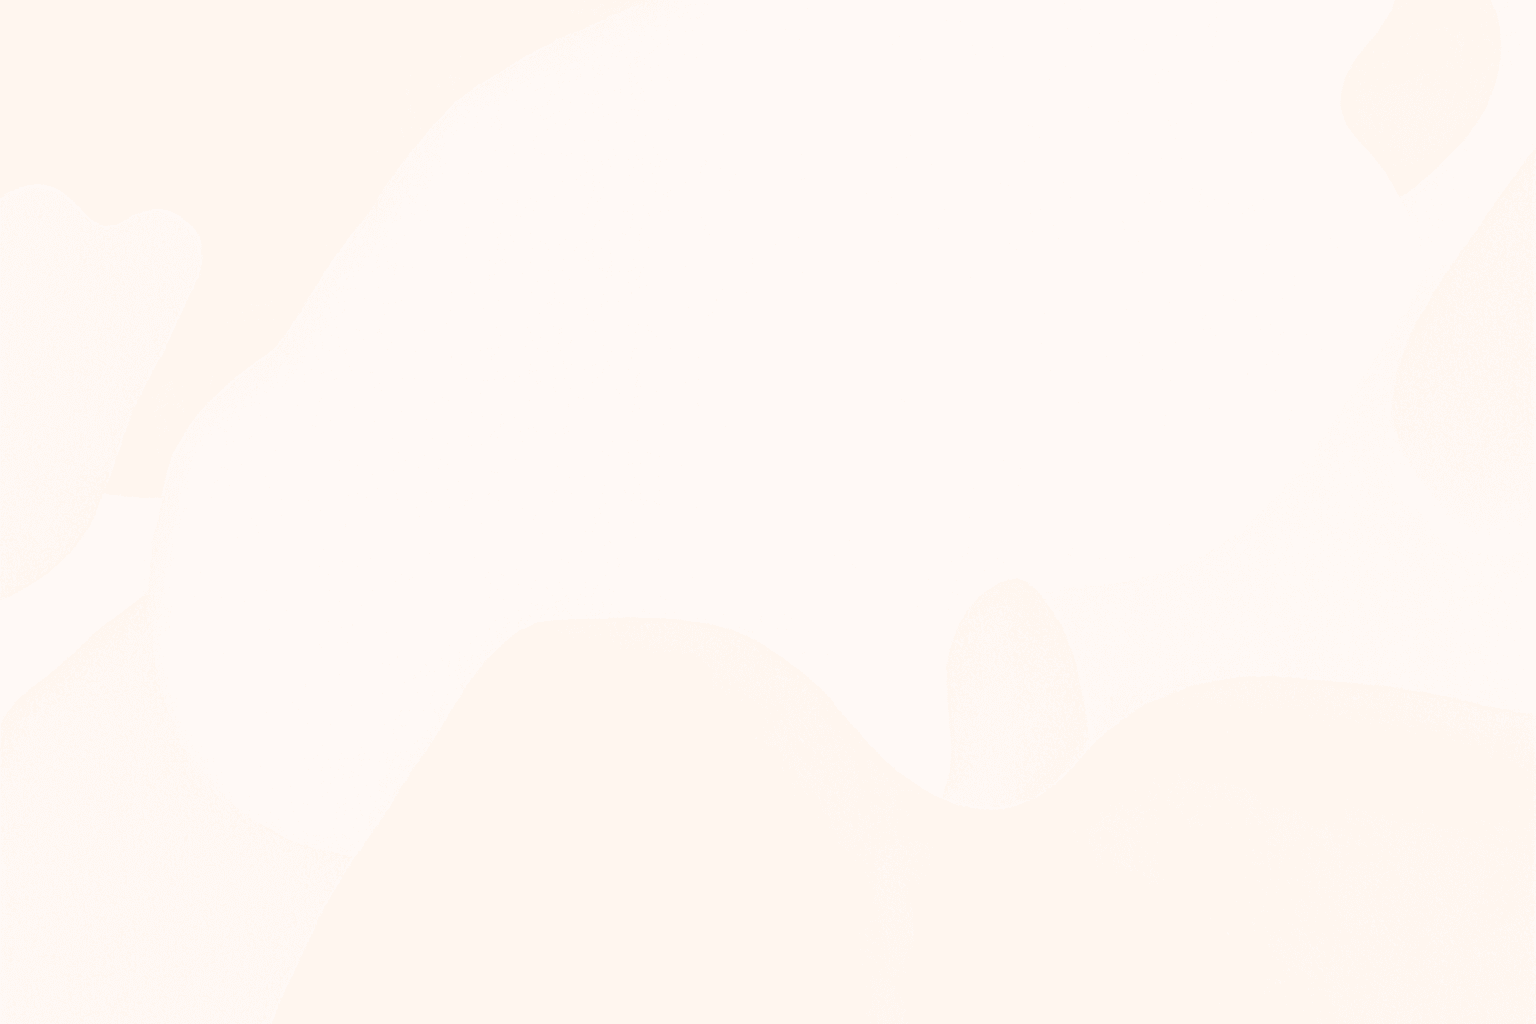
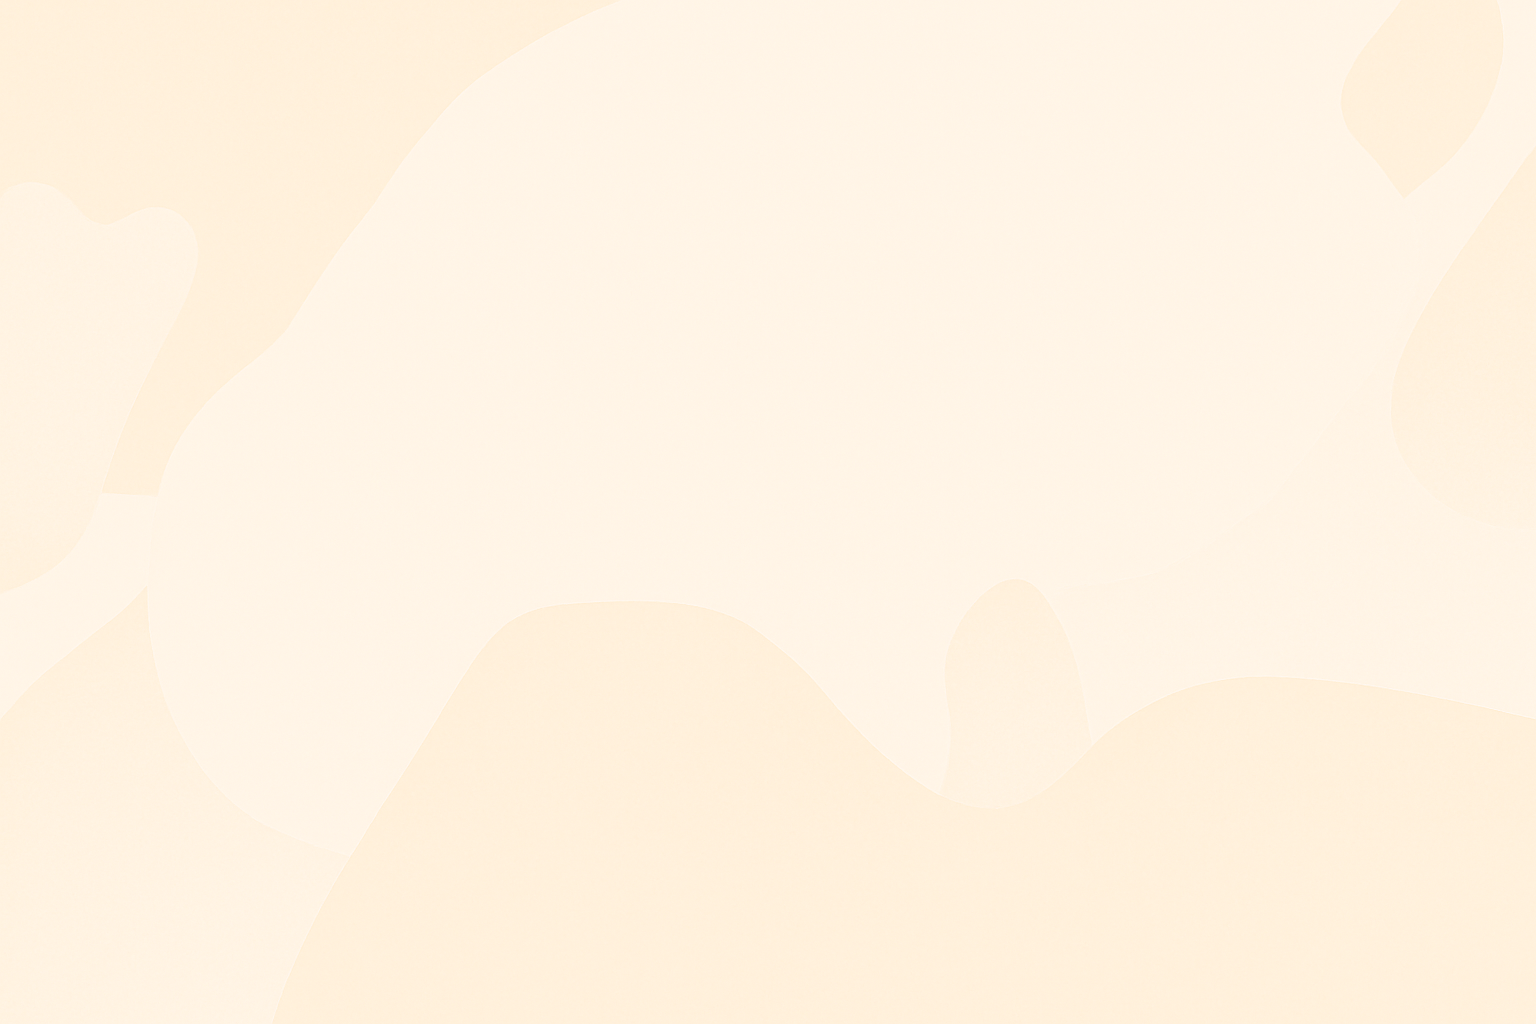
updated the home images and background for site

diff --git a/public/css/style.css b/public/css/style.css
@@ -121,7 +121,7 @@ body{
     margin: 0px;
     background-color: #fff6f0;
     font-family: sans-serif;
-    background: url(/images/gradient-background.png);
+    background: url('/images/gradient-background.png');
     background-size: cover;
     background-repeat: no-repeat;
 }
@@ -286,6 +286,10 @@ header .header-nav > a:before{
 
 header .header-nav a:hover:before{
     width: 100%;
+}
+
+header .header-nav .dropdown-con > li:hover > a{
+    color: white;
 }
 
 header .header-nav ul a:hover{
